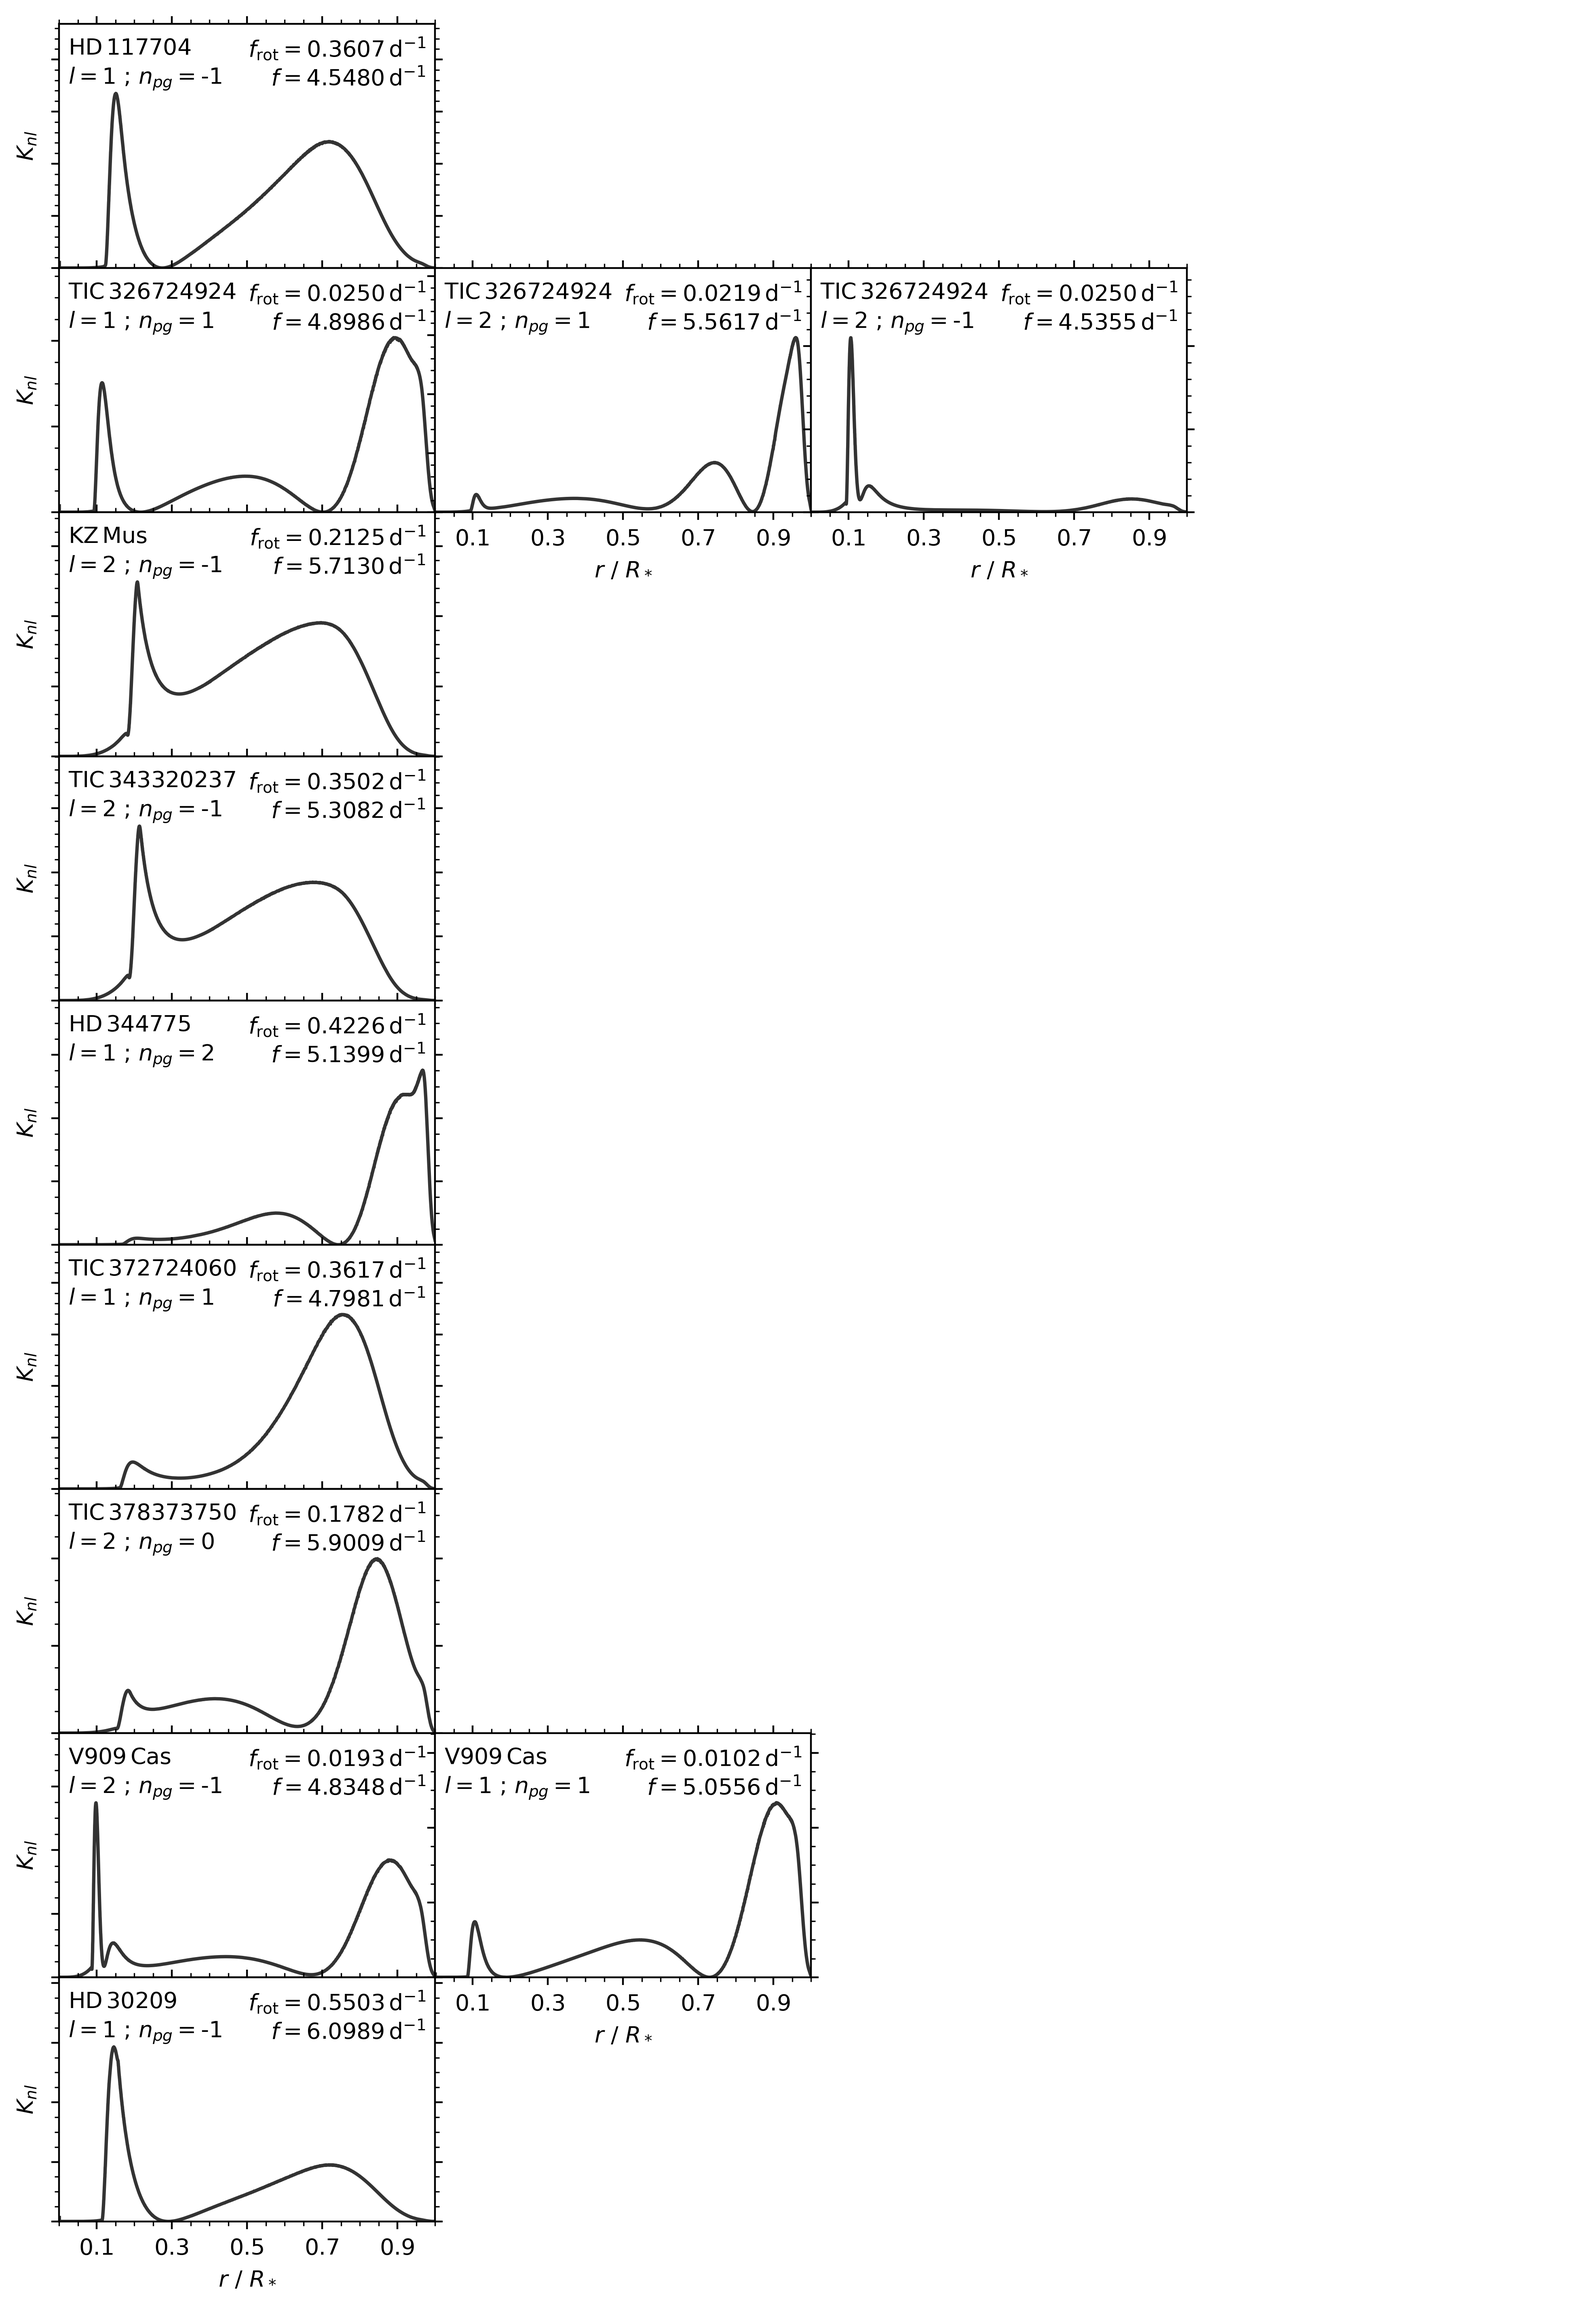
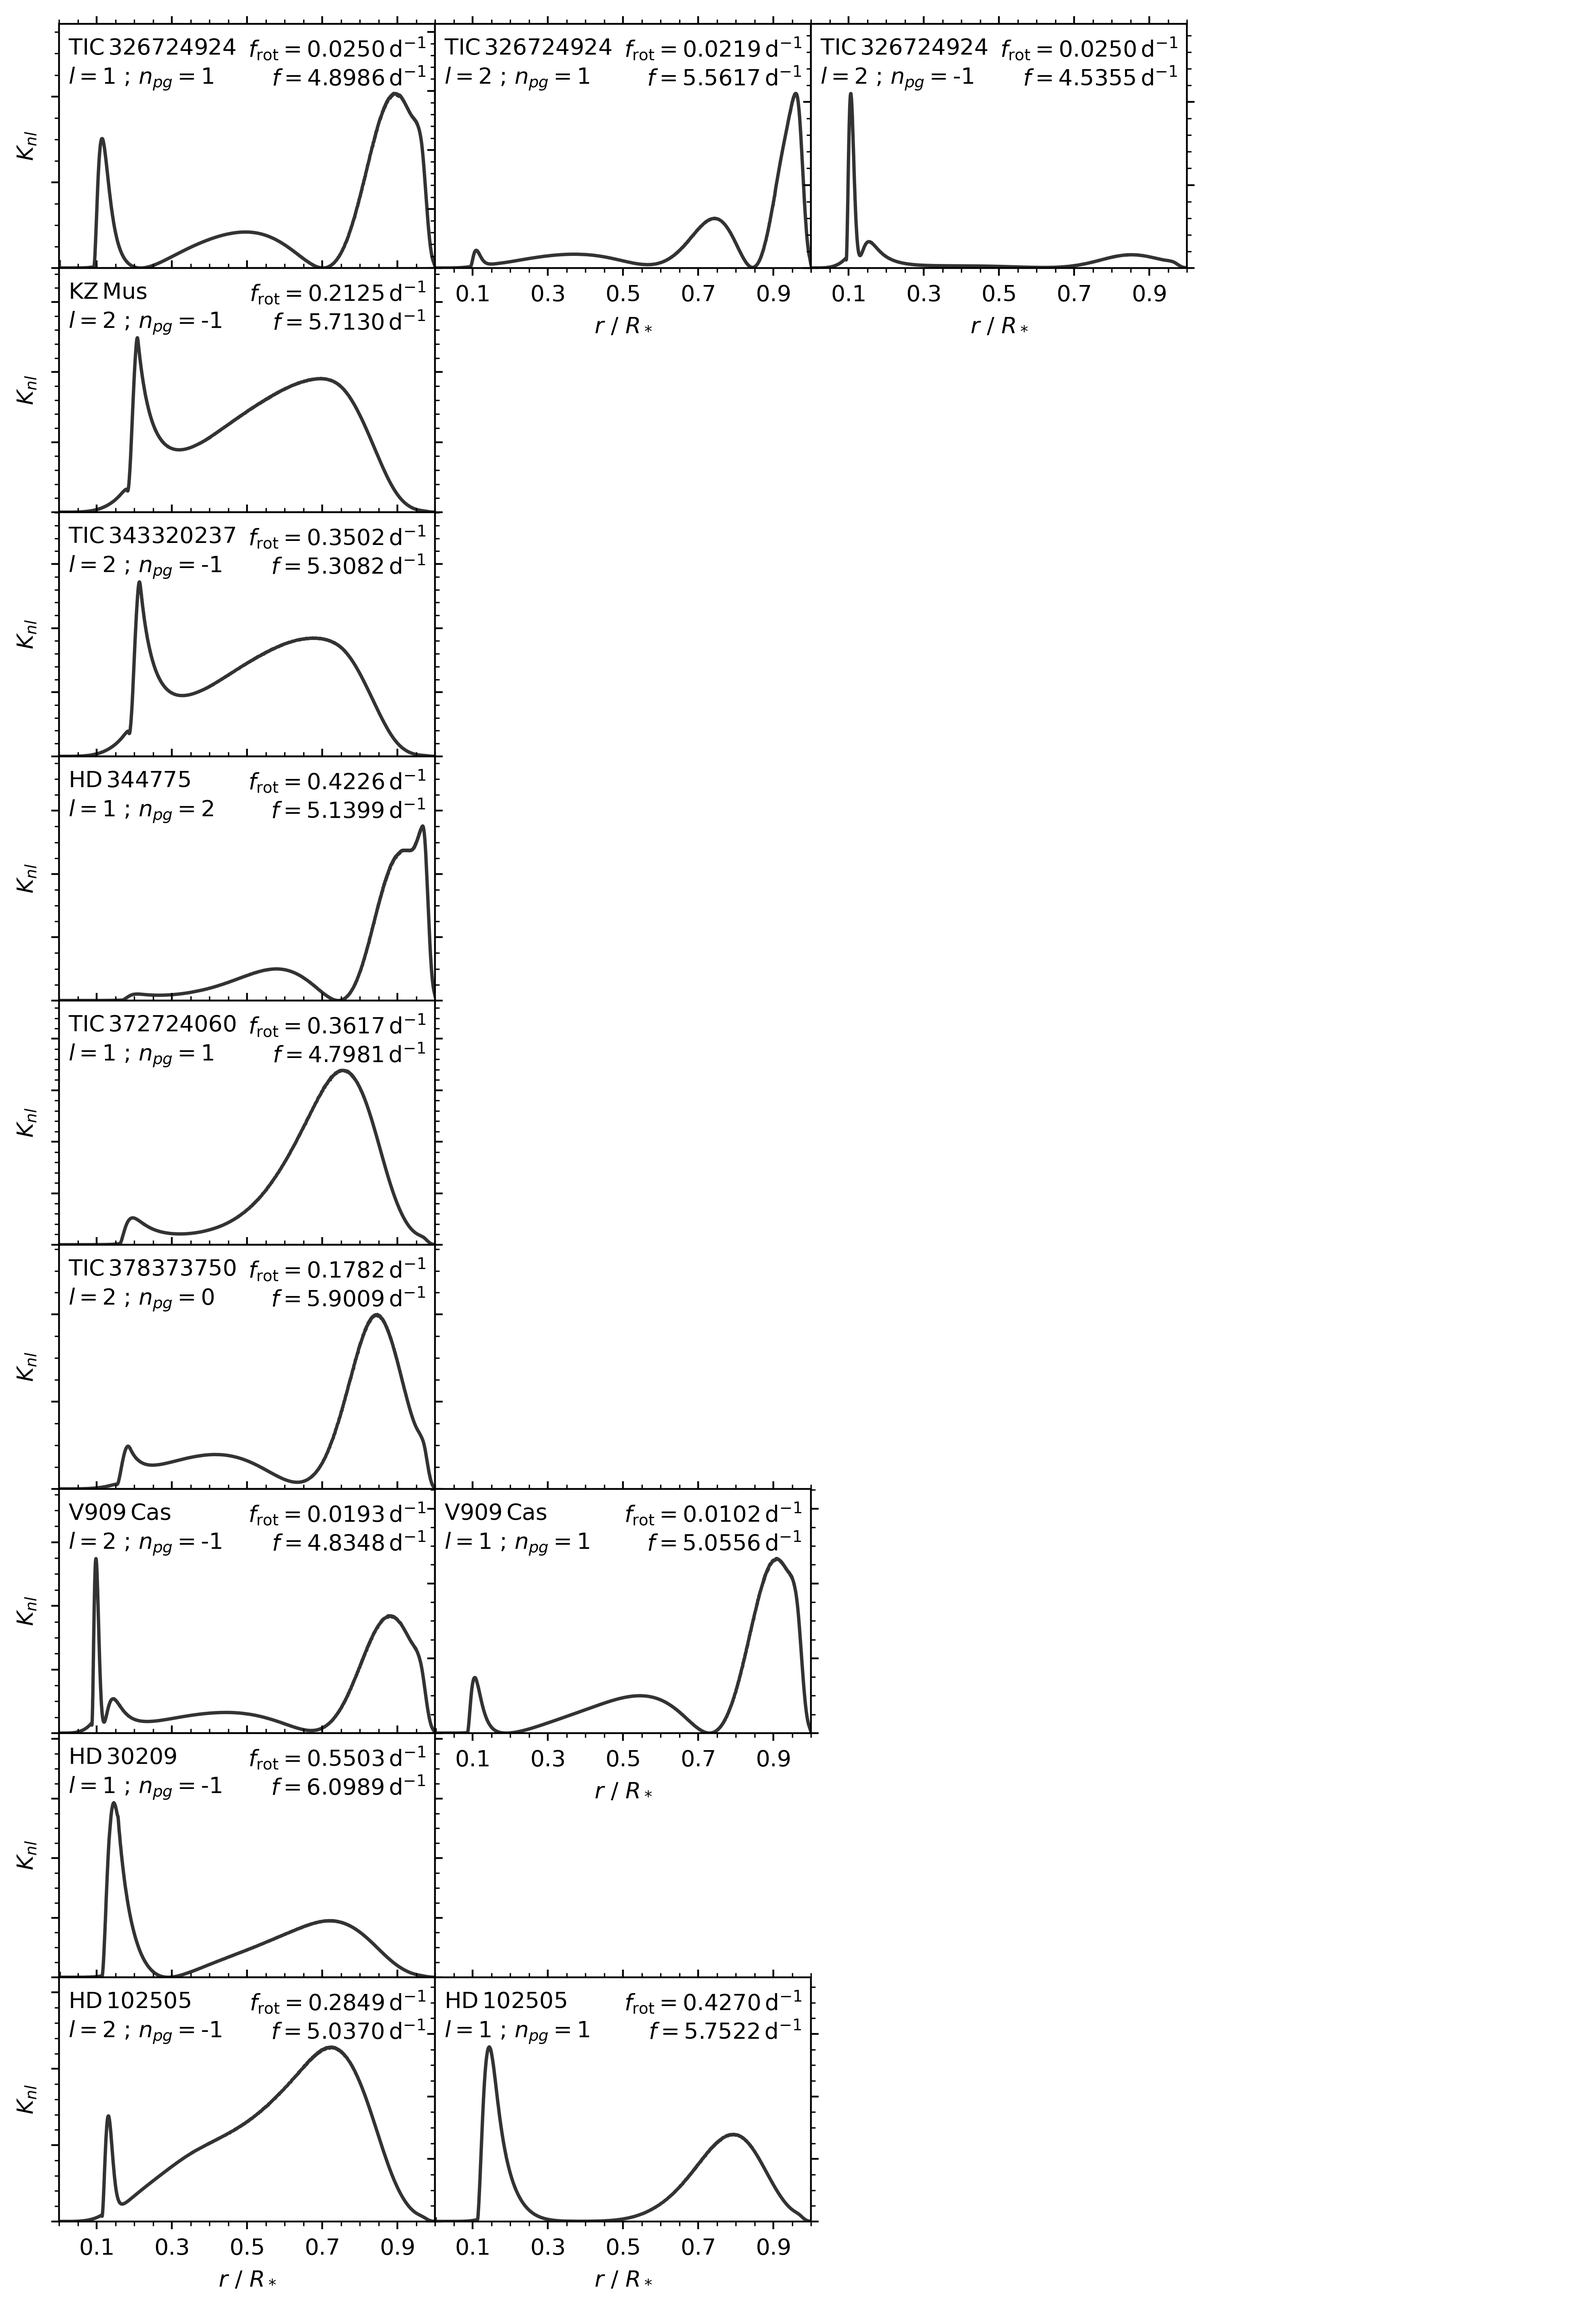
Updated kernels, renamed tables

diff --git a/README.md b/README.md
@@ -1,10 +1,10 @@
 This repository accompanies the paper 
-M. Vanrespaille, D. j. Fritzewski, V. Vanlaer, C. Aerts; _Asteroseismic forward modelling of 36 β Cep pulsators and inferences on their internal differential rotation_ ; submitted to Astronomy & Astrophysics
+M. Vanrespaille, D. J. Fritzewski, V. Vanlaer, C. Aerts; *Asteroseismic forward modelling of 36 β Cep pulsators and inferences on their internal differential rotation* ; submitted to Astronomy & Astrophysics
 
 Questions regarding the figures, data, code and inlists in this repository should be addressed to corresponding author M. Vanrespaille (mathijs.vanrespaille@kuleuven.be)
 
-This repository contains the following subdirectories:
- - MESA_StORM_setup
- - 
- - 
- - 
+This repository contains the following subdirectories, which each contain their own README to further describe their content:
+ - MESA\_StORM\_setup : A directory containing the MESA work directory, nuclear rates cache, and StORM commands used to produce the grid of stellar models and its oscillation computations.
+ - tables : Tables and a README in the CDS format containing the data necessary to reproduce the figures and results presented in the paper. 
+ - kernels : Figures of the sensitivity kernels of all rotationally split multiplets in our sample. 
+ - models : For each star in the sample, we provide a subdirectory containing the best model, including all predicted frequencies, and the MESA profile, GYRE input model and history data nearest to the best model.  

diff --git a/kernels/README.md b/kernels/README.md
@@ -1,0 +1,1 @@
+This directory displays the normalised sensitivity kernels of all the modelled non-radial multiplets in our sample. Each star is given one row of panels, and each of the four figures -- available in both .png and .pdf formats -- contains nine stars. Each of these panels shows the sensitivity kernels against normalised radius, and also includes the name of the star, the degree and radial order of the modelled multiplet and the zonal frequency of the multiplet. 
